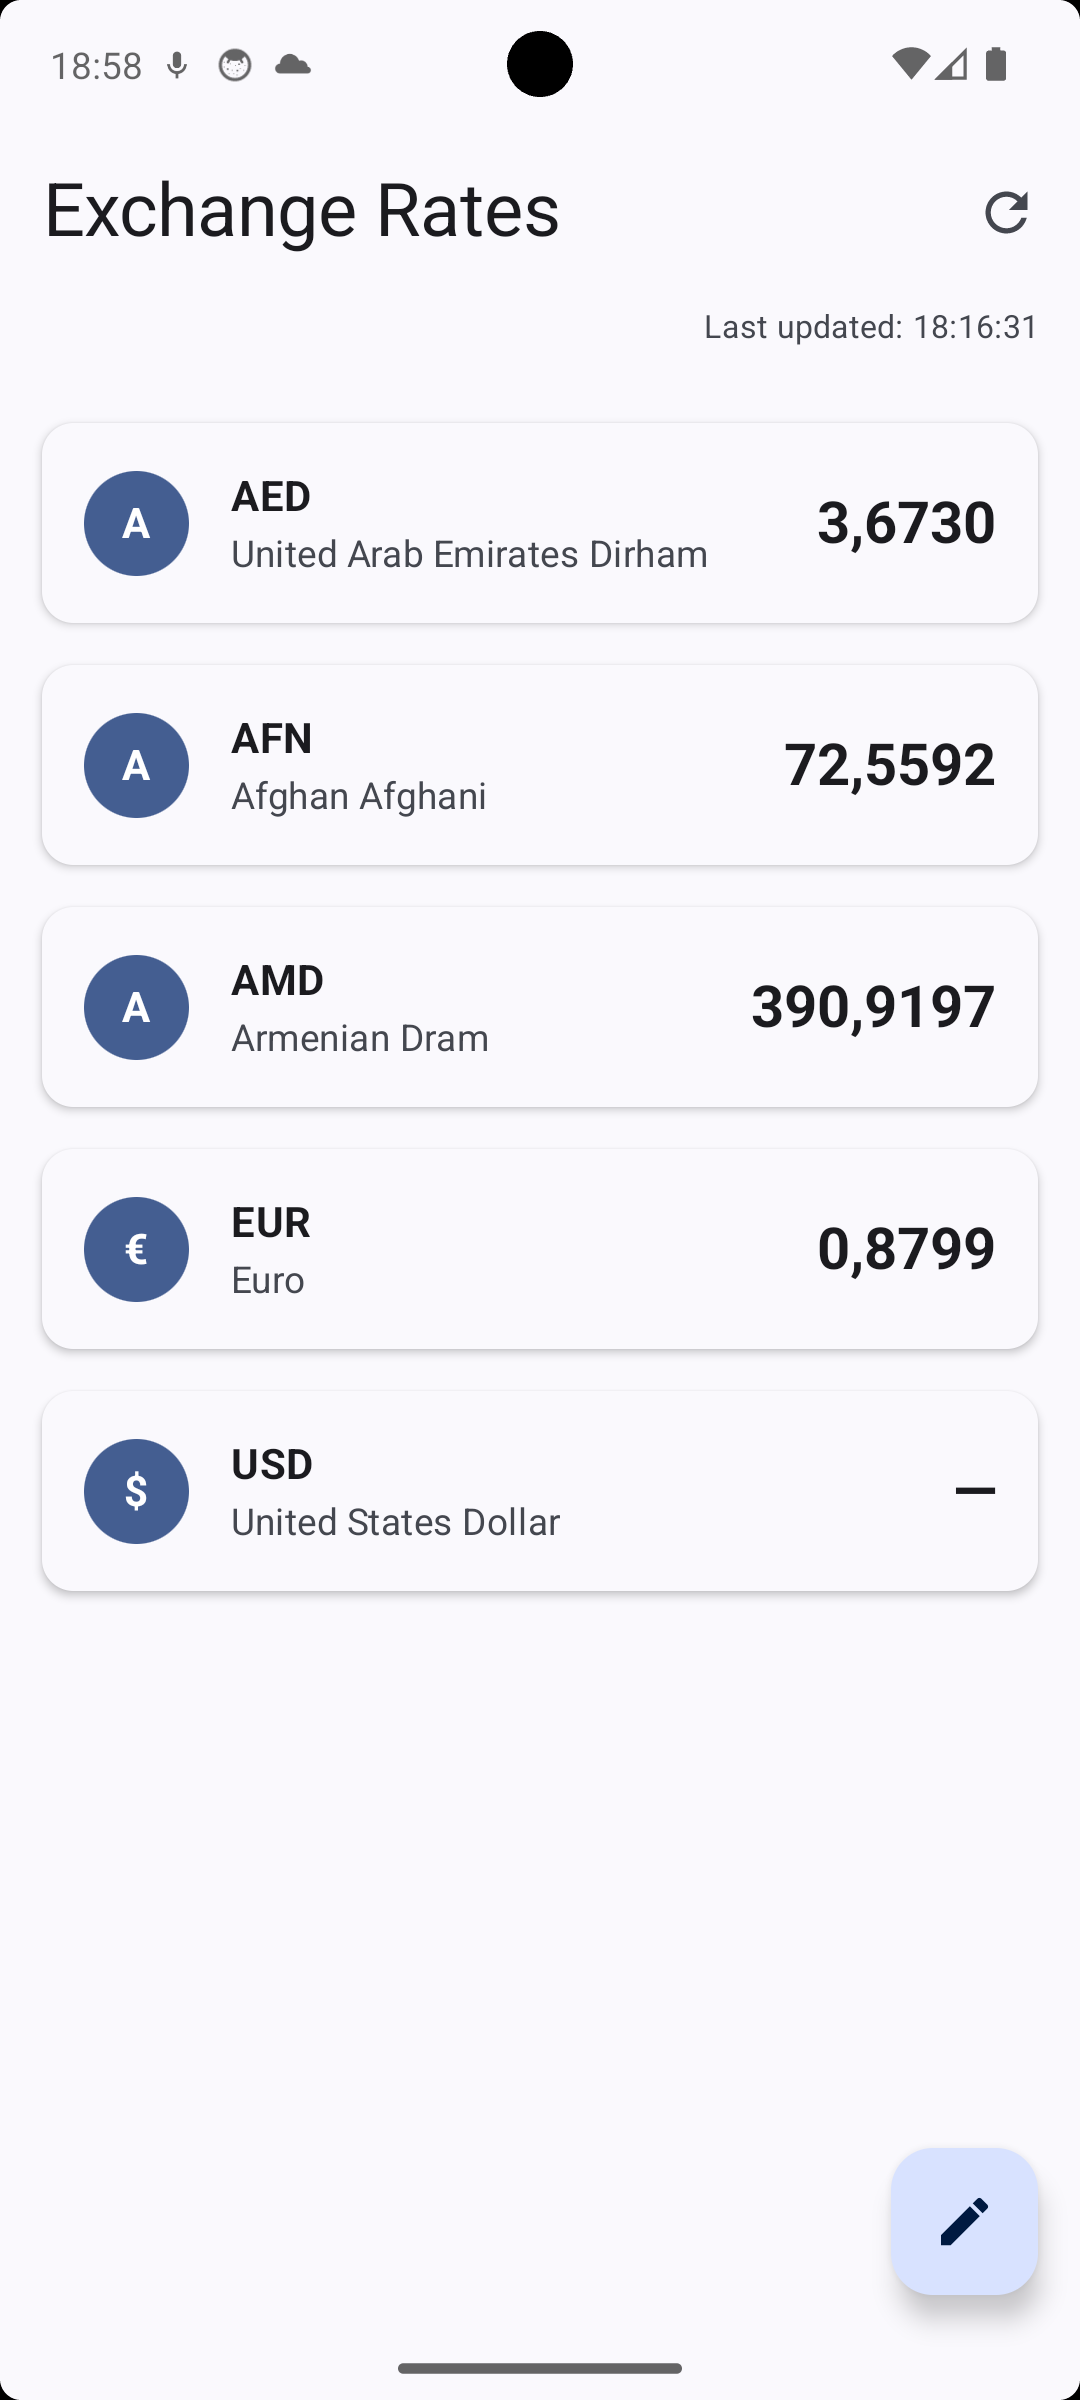
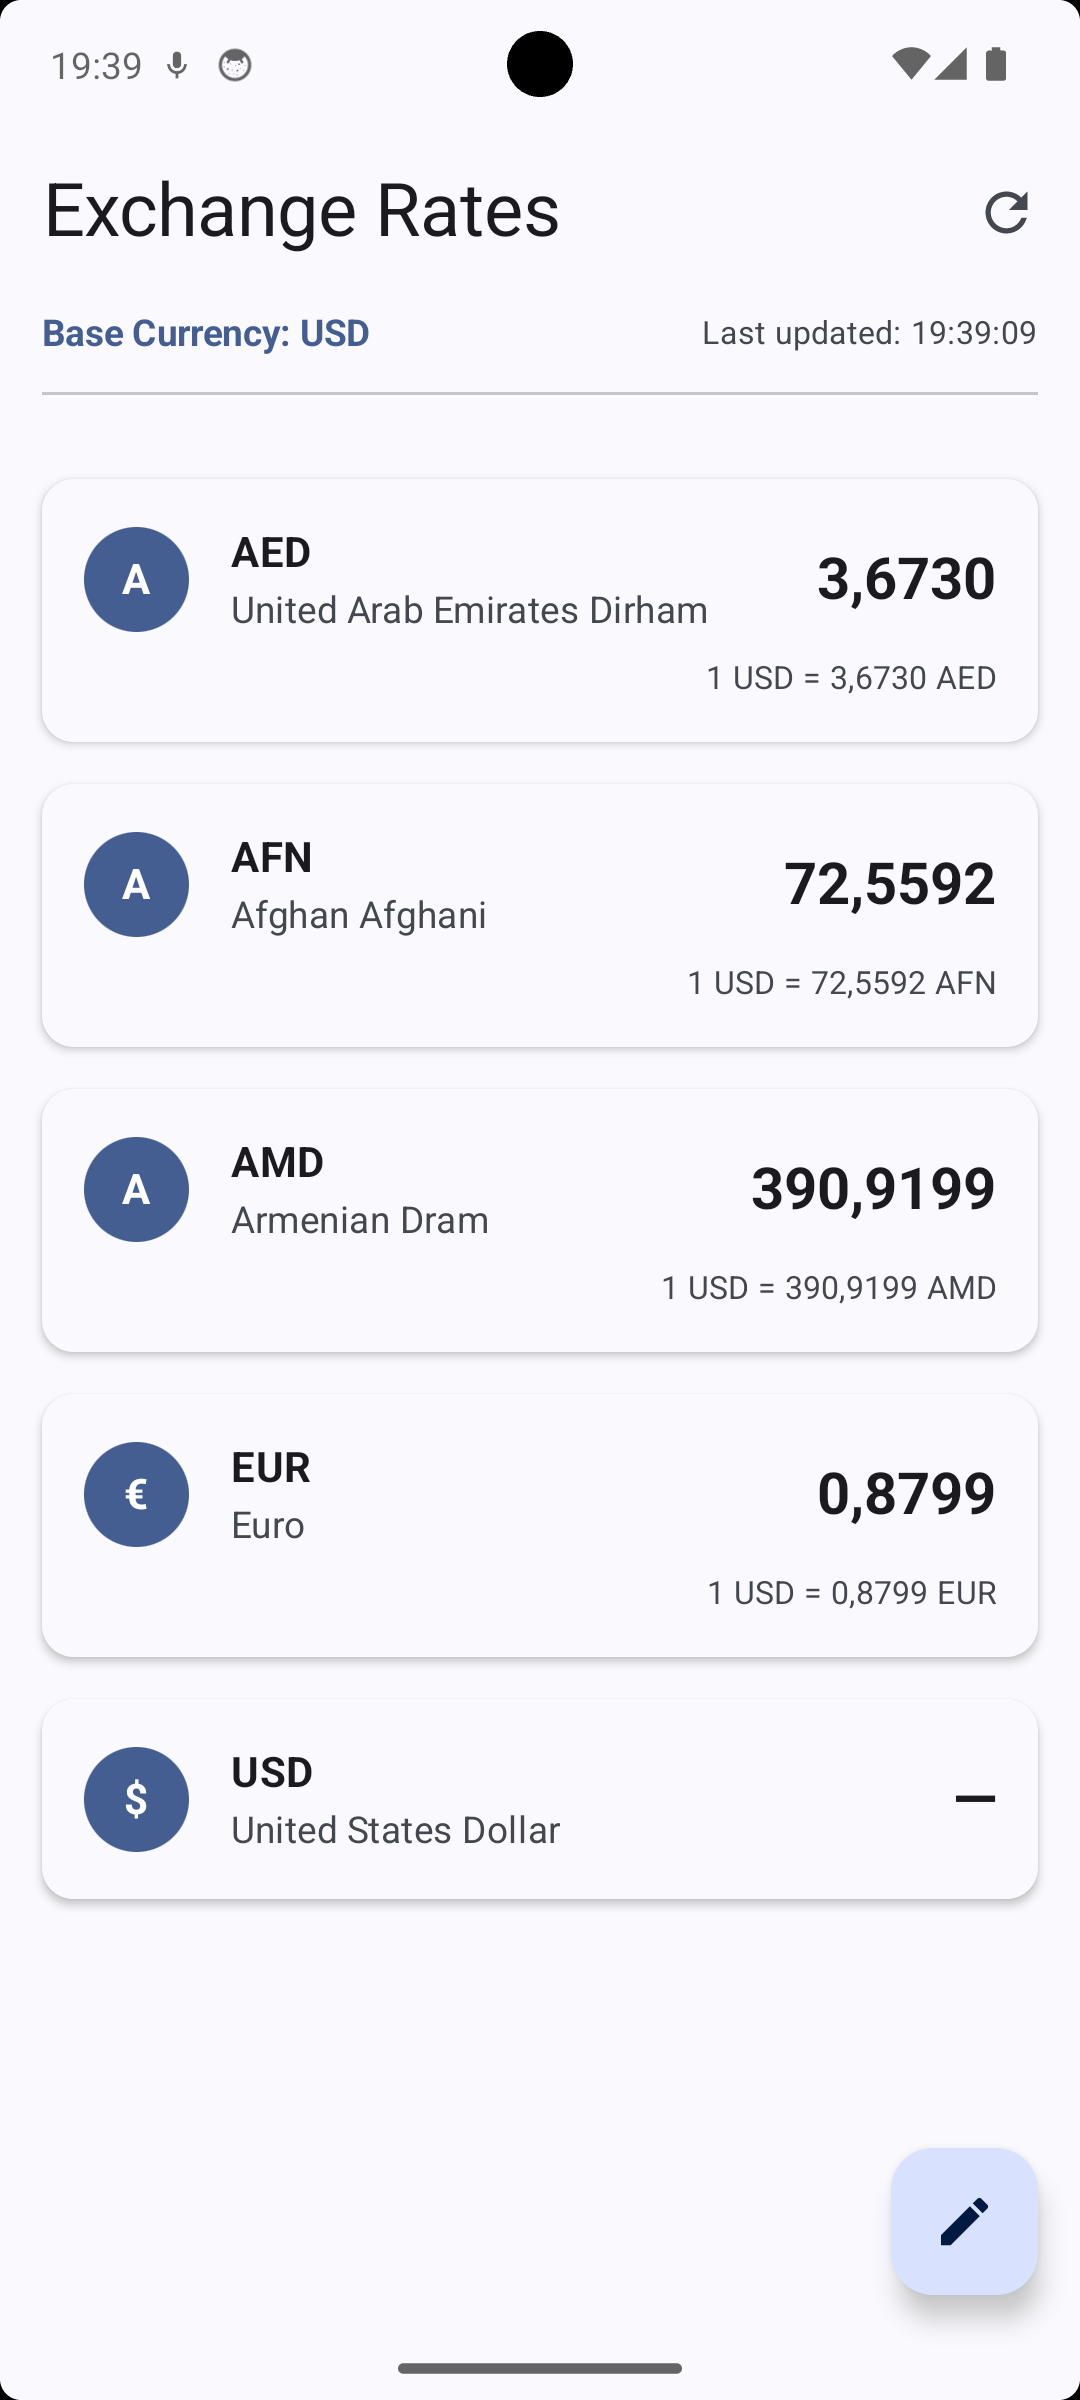
minor UI improvements

diff --git a/app/src/main/java/com/example/currencydashboard/presentation/home/HomeScreen.kt b/app/src/main/java/com/example/currencydashboard/presentation/home/HomeScreen.kt
@@ -27,6 +27,7 @@ import androidx.compose.material3.CardDefaults
 import androidx.compose.material3.CircularProgressIndicator
 import androidx.compose.material3.ExperimentalMaterial3Api
 import androidx.compose.material3.FloatingActionButton
+import androidx.compose.material3.HorizontalDivider
 import androidx.compose.material3.Icon
 import androidx.compose.material3.IconButton
 import androidx.compose.material3.MaterialTheme
@@ -61,11 +62,11 @@ fun HomeScreen(
 ) {
     val state by viewModel.state.collectAsStateWithLifecycle()
     val context = LocalContext.current
-    
+
     Scaffold(
         topBar = {
             TopAppBar(
-                title = { 
+                title = {
                     Text(
                         text = stringResource(R.string.exchange_rates),
                         style = MaterialTheme.typography.headlineMedium
@@ -81,7 +82,10 @@ fun HomeScreen(
                         )
                     } else {
                         IconButton(onClick = { viewModel.handleIntent(HomeIntent.RefreshRates) }) {
-                            Icon(Icons.Default.Refresh, contentDescription = stringResource(R.string.refresh))
+                            Icon(
+                                Icons.Default.Refresh,
+                                contentDescription = stringResource(R.string.refresh)
+                            )
                         }
                     }
                 }
@@ -98,27 +102,52 @@ fun HomeScreen(
                 .fillMaxSize()
                 .padding(paddingValues)
         ) {
-            Text(
-                text = stringResource(R.string.last_updated, formatTimestamp(state.lastUpdated, context)),
-                style = MaterialTheme.typography.bodySmall,
-                color = MaterialTheme.colorScheme.onSurfaceVariant,
+            Row(
                 modifier = Modifier
                     .fillMaxWidth()
                     .padding(horizontal = 16.dp, vertical = 4.dp),
-                textAlign = TextAlign.End
+                horizontalArrangement = Arrangement.SpaceBetween,
+                verticalAlignment = Alignment.CenterVertically
+            ) {
+                // Base currency indicator
+                Text(
+                    text = stringResource(R.string.base_currency, state.baseCurrency),
+                    style = MaterialTheme.typography.titleSmall,
+                    color = MaterialTheme.colorScheme.primary,
+                    fontWeight = FontWeight.Bold
+                )
+
+                // Last updated info
+                Text(
+                    text = stringResource(
+                        R.string.last_updated,
+                        formatTimestamp(state.lastUpdated, context)
+                    ),
+                    style = MaterialTheme.typography.bodySmall,
+                    color = MaterialTheme.colorScheme.onSurfaceVariant
+                )
+            }
+
+            HorizontalDivider(
+                modifier = Modifier.padding(horizontal = 16.dp, vertical = 8.dp),
+                color = MaterialTheme.colorScheme.outlineVariant
             )
-            
+
             if (state.assets.isEmpty()) {
                 EmptyState(Modifier.weight(1f))
             } else {
                 AssetList(
                     assets = state.assets,
+                    baseCurrency = state.baseCurrency,
                     modifier = Modifier.weight(1f)
                 )
             }
-            
+
             if (state.error != null) {
-                ErrorBanner(errorMessage = state.error?.toUiText() ?: stringResource(R.string.failed_to_refresh_rates))
+                ErrorBanner(
+                    errorMessage = state.error?.toUiText()
+                        ?: stringResource(R.string.failed_to_refresh_rates)
+                )
             }
         }
     }
@@ -127,6 +156,7 @@ fun HomeScreen(
 @Composable
 fun AssetList(
     assets: List<Asset>,
+    baseCurrency: String,
     modifier: Modifier = Modifier
 ) {
     LazyColumn(
@@ -136,59 +166,78 @@ fun AssetList(
         verticalArrangement = Arrangement.spacedBy(16.dp)
     ) {
         item { Spacer(modifier = Modifier.height(8.dp)) }
-        
+
         items(assets, key = { it.code }) { asset ->
-            AssetCard(asset = asset)
+            AssetCard(asset = asset, baseCurrency = baseCurrency)
         }
-        
+
         item { Spacer(modifier = Modifier.height(80.dp)) }
     }
 }
 
 @Composable
-fun AssetCard(asset: Asset) {
+fun AssetCard(asset: Asset, baseCurrency: String) {
     val context = LocalContext.current
 
-    
     Card(
         modifier = Modifier
             .fillMaxWidth(),
         elevation = CardDefaults.cardElevation(defaultElevation = 2.dp),
-        colors = CardDefaults.cardColors(containerColor =  MaterialTheme.colorScheme.surface)
+        colors = CardDefaults.cardColors(containerColor = MaterialTheme.colorScheme.surface)
     ) {
-        Row(
+        Column(
             modifier = Modifier
                 .fillMaxWidth()
-                .padding(16.dp),
-            verticalAlignment = Alignment.CenterVertically
+                .padding(16.dp)
         ) {
-            // Currency icon (circle with currency symbol)
-            AssetIcon(asset.code)
-            
-            // Currency info
-            Column(
-                modifier = Modifier
-                    .weight(1f)
-                    .padding(horizontal = 16.dp)
+            Row(
+                modifier = Modifier.fillMaxWidth(),
+                verticalAlignment = Alignment.CenterVertically
             ) {
-                Text(
-                    text = asset.code,
-                    style = MaterialTheme.typography.titleMedium,
-                    fontWeight = FontWeight.Bold
-                )
-                Text(
-                    text = asset.name,
-                    style = MaterialTheme.typography.bodyMedium,
-                    color = MaterialTheme.colorScheme.onSurfaceVariant
-                )
-            }
-            
-            // Rate and change
-            Column(horizontalAlignment = Alignment.End) {
+                // Currency icon (circle with currency symbol)
+                AssetIcon(asset.code)
+
+                // Currency info
+                Column(
+                    modifier = Modifier
+                        .weight(1f)
+                        .padding(horizontal = 16.dp)
+                ) {
+                    Text(
+                        text = asset.code,
+                        style = MaterialTheme.typography.titleMedium,
+                        fontWeight = FontWeight.Bold
+                    )
+                    Text(
+                        text = asset.name,
+                        style = MaterialTheme.typography.bodyMedium,
+                        color = MaterialTheme.colorScheme.onSurfaceVariant
+                    )
+                }
+
+                // Rate
                 Text(
                     text = formatRate(asset.rate, context),
                     style = MaterialTheme.typography.titleLarge,
                     fontWeight = FontWeight.Bold
+                )
+            }
+
+            if (asset.code != baseCurrency) {
+                // Exchange rate explanation
+                Text(
+                    text = stringResource(
+                        R.string.exchange_rate_description,
+                        baseCurrency,
+                        formatRate(asset.rate, context),
+                        asset.code
+                    ),
+                    style = MaterialTheme.typography.bodySmall,
+                    color = MaterialTheme.colorScheme.onSurfaceVariant,
+                    modifier = Modifier
+                        .fillMaxWidth()
+                        .padding(top = 8.dp),
+                    textAlign = TextAlign.End
                 )
             }
         }

diff --git a/README.md b/README.md
@@ -6,20 +6,20 @@ view up-to-date information.
 
 ## Features
 
-- Track real-time exchange rates for multiple currencies
+- Track real-time exchange rates for multiple currencies (with USD as base currency)
 - Customize your currency watchlist
 - Search and filter available currencies
 - Clean, modern UI built with Jetpack Compose
 - Offline support with local caching
+- Auto-refresh functionality using Kotlin Flow
 
 ## Screenshots
 
 ### Main Screen
-
 ![Home Screen](screenshots/home_screen.png)
 
-The home screen displays the current exchange rates with auto-refresh functionality implemented
-using Kotlin Flow:
+The home screen displays the current exchange rates with USD as the base currency. Each card shows
+the exchange rate (e.g., 1 USD = 0.85 EUR) and auto-refreshes every 3 seconds using Kotlin Flow:
 
 ```kotlin
 // Auto-refresh flow implementation in HomeViewModel
@@ -76,21 +76,19 @@ Note: The `api.properties` file is excluded from version control to keep API cre
 ## Setup Instructions
 
 ### Prerequisites
-
 - Android Studio Giraffe (2023.2.1) or newer
 - JDK 11
 - Kotlin 1.9 or newer
 
 ### Build and Run
-
 1. Clone the repository:
    ```bash
    git clone https://github.com/yourusername/CurrencyDashboard.git
    ```
 
 2. Set up API credentials:
-    - Copy `api.properties.sample` to `api.properties`
-    - Add your API key from exchangerate.host
+   - Copy `api.properties.sample` to `api.properties`
+   - Add your API key from exchangerate.host
 
 3. Open the project in Android Studio
 
@@ -115,9 +113,10 @@ The application follows Clean Architecture principles and MVVM pattern:
 
 ## Assumptions Made
 
-1. **Base Currency**: USD is used as the default base currency for exchange rates.
-2. **Update Frequency**: Exchange rates don't need to be updated more frequently than once per
-   manual refresh by the user.
+1. **Base Currency**: USD is used as the default base currency for exchange rates. The UI clearly
+   indicates this to users.
+2. **Update Frequency**: Exchange rates are automatically refreshed every 3 seconds to provide
+   real-time data.
 3. **Network Connectivity**: The app handles both online and offline scenarios, providing cached
    data when offline.
 4. **Rate Limit**: The free API tier provides not sufficient requests (100) for normal app usage.
